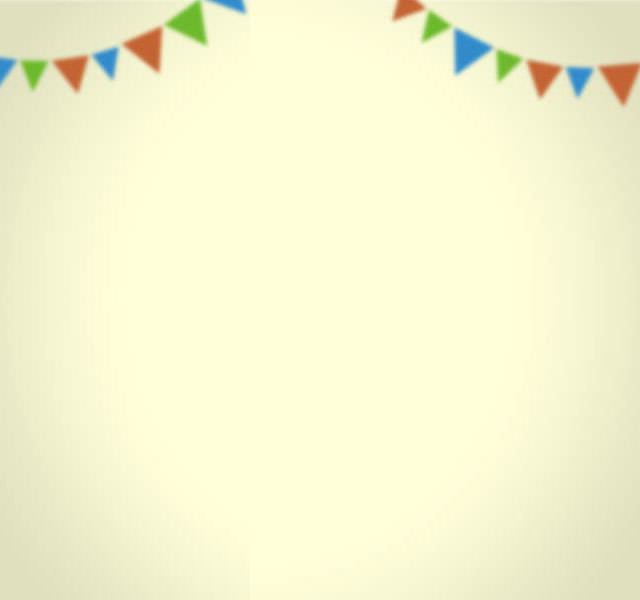
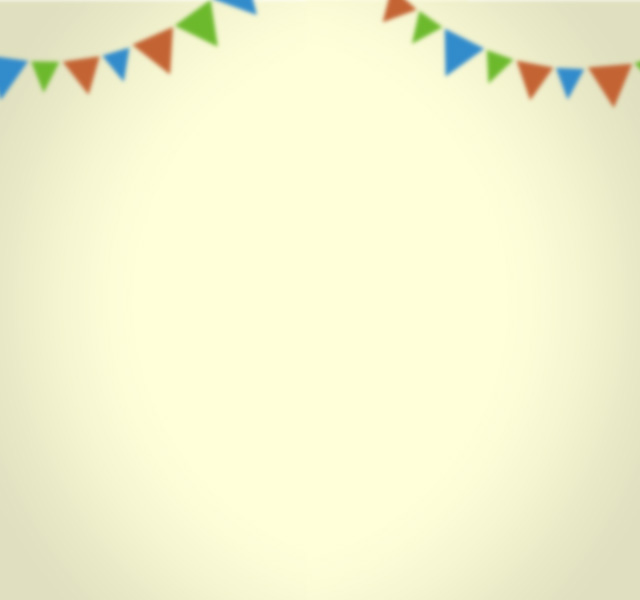
背景画像の高画質化

Changed region(s): [[0.5938, 0.0, 1.0, 0.18], [0.0, 0.0, 0.4062, 0.18]]

diff --git a/css/main.css b/css/main.css
@@ -1,1 +1,1 @@
-.wrapper .notice-txt{overflow:hidden}.wrapper .notice-txt:before{display:block;width:0;height:100%;content:""}.wrapper .notice-yes button,.wrapper .notice-no{-moz-transition:-moz-transform 0.3s ease 0s;-o-transition:-o-transform 0.3s ease 0s;-webkit-transition:-webkit-transform 0.3s ease;-webkit-transition-delay:0s;transition:transform 0.3s ease 0s}.wrapper .notice-yes button:hover,.wrapper .notice-no:hover{-moz-transform:scale(1.2, 1.2);-ms-transform:scale(1.2, 1.2);-webkit-transform:scale(1.2, 1.2);transform:scale(1.2, 1.2)}.wrapper .notice-yes button:active,.wrapper .notice-no:active{-moz-transform:scale(1.4, 1.4);-ms-transform:scale(1.4, 1.4);-webkit-transform:scale(1.4, 1.4);transform:scale(1.4, 1.4)}.wrapper .result_container .again{-moz-transition:opacity 0.3s ease 0s;-o-transition:opacity 0.3s ease 0s;-webkit-transition:opacity 0.3s ease;-webkit-transition-delay:0s;transition:opacity 0.3s ease 0s}.wrapper .result_container .again:hover{opacity:0.8}body,div,dl,dt,dd,ul,ol,li,h1,h2,h3,h4,h5,h6,object,iframe,pre,code,p,blockquote,form,fieldset,legend,span,input,table,th,td,caption,tbody,tfoot,thead,article,aside,figure,footer,header,hgroup,menu,nav,section,audio,video,canvas,main{margin:0;padding:0;box-sizing:border-box}article,aside,figure,figcaption,footer,h1,h2,h3,h4,h5,h6,header,hgroup,menu,nav,section,main{display:block}html,body{width:100%;min-height:100%}body{color:#000;background:#fff;font-family:"Luckiest Guy","ヒラギノ角ゴ Pro W3","Hiragino Kaku Gothic Pro","メイリオ",Meiryo,"ＭＳ Ｐゴシック",sans-serif;font-size:13px;*font-size:82%;line-height:1.5;-webkit-text-size-adjust:100%;word-wrap:break-word}a{color:inherit;text-decoration:none}h1,h2,h3,h4,h5,h6{font-size:100%}p{line-height:1.5}li{list-style:none}table{border-collapse:collapse;border-spacing:0;font-size:100%;font-family:inherit}caption,th,td{text-align:left;vertical-align:top;font-weight:normal}fieldset{border:none}input,textarea,select,label{margin-top:0;margin-bottom:0;padding-top:0;padding-bottom:0;font-size:100%;font-family:inherit;vertical-align:middle;border:none;-webkit-appearance:none;-moz-appearance:none;appearance:none}input:focus,textarea:focus,select:focus,label:focus{outline:none}input ::-moz-focus-inner,textarea ::-moz-focus-inner,select ::-moz-focus-inner,label ::-moz-focus-inner{border:0}select{background:none;border:none}input[type="submit"]{cursor:pointer}label{cursor:pointer}textarea{overflow:auto}legend{display:none}::-moz-selection{background:#b3d4fc;text-shadow:none}::selection{background:#b3d4fc;text-shadow:none}img{border:none;box-sizing:border-box;vertical-align:middle}object{vertical-align:middle;outline:none}em{font-style:italic}strong{font-weight:bold}small{font-size:100%}abbr,acronym{border:none;font-variant:normal}q:before,q:after{content:""}address,caption,cite,code,dfn,var{font-weight:normal;font-style:normal}code,pre{font-family:monospace}sup{vertical-align:text-top}sub{vertical-align:text-bottom}hr{display:none}button{width:100%;height:100%;line-height:inherit;border:none;background:none;cursor:pointer;margin:0;padding:0;color:inherit;font-size:inherit;font-weight:inherit;font-family:inherit;vertical-align:top}button:focus{outline:none}button ::-moz-focus-inner{border:0}button::-moz-focus-inner,input[type="button"]::-moz-focus-inner,input[type="submit"]::-moz-focus-inner,input[type="reset"]::-moz-focus-inner{padding:0 !important;border:0 none !important}*:first-child+html body,*:first-child+html br{letter-spacing:0}@-moz-keyframes show{0%{opacity:0}100%{opacity:1}}@-webkit-keyframes show{0%{opacity:0}100%{opacity:1}}@keyframes show{0%{opacity:0}100%{opacity:1}}.sp{display:none}.wrapper{position:absolute;top:0;right:0;bottom:0;left:0;min-width:1280px;min-height:600px;overflow:hidden;background:url('../img/common/bg.jpg?1426948714') no-repeat center;background-size:cover}body.is_sp .wrapper{width:640px;min-width:0;min-height:0;background:url('../img/common/bg_sp.jpg?1426948714') no-repeat center;background-size:cover}.wrapper .ttl{width:650.66667px;height:152px;margin:40px auto 0}.wrapper .ttl img{width:100%;height:auto}body.is_sp .wrapper .ttl{width:488px;height:114px;margin-top:40px}body.is_sp .wrapper .ttl img{width:100%;height:auto}.wrapper .boy{position:absolute;bottom:40px;left:50%;width:300px;height:670px;background-image:url('../img/boy/body.png?1426948714');background-size:100% auto;background-position:0 0px;margin-left:-600px;-moz-transform-origin:center bottom;-ms-transform-origin:center bottom;-webkit-transform-origin:center bottom;transform-origin:center bottom}body.is_sp .wrapper .boy{top:50%;bottom:auto;margin:-240px auto auto -420px;-moz-transform:scale(0.8, 0.8);-ms-transform:scale(0.8, 0.8);-webkit-transform:scale(0.8, 0.8);transform:scale(0.8, 0.8)}.wrapper .boy.normal{background-position:0 0px}.wrapper .boy.wait{background-position:0 -670px}.wrapper .boy.think{background-position:0 -1340px}.wrapper .boy.boring{background-position:0 -2010px}.wrapper .boy.surprised{background-position:0 -2680px}.wrapper .boy.happy{background-position:0 -3350px}.wrapper .boy:before{position:absolute;top:10px;right:-120px;width:157px;height:185px;background:url('../img/common/balloon-small.png?1426948714') no-repeat center;background-size:contain;opacity:0;-moz-transition:all 0.9s ease 0s;-o-transition:all 0.9s ease 0s;-webkit-transition:all 0.9s ease;-webkit-transition-delay:0s;transition:all 0.9s ease 0s;content:""}.wrapper .boy:before img{width:100%;height:auto}body.is_sp .wrapper .boy:before{top:-80px;right:-40px}.wrapper .boy.think:before{-moz-transform:translate(10px, -10px);-ms-transform:translate(10px, -10px);-webkit-transform:translate(10px, -10px);transform:translate(10px, -10px);opacity:1}.wrapper .boy.happy:before{display:none}.wrapper .girl{position:absolute;bottom:40px;left:50%;width:234px;height:709px;margin-left:250px;background:url('../img/girl/body.png?1426948714') no-repeat center;background-size:contain;-moz-transform-origin:center bottom;-ms-transform-origin:center bottom;-webkit-transform-origin:center bottom;transform-origin:center bottom}.wrapper .girl img{width:100%;height:auto}body.is_sp .wrapper .girl{top:50%;bottom:auto;margin:-280px auto auto 50px}.wrapper .girl .parts{position:absolute;margin:auto;box-sizing:content-box;border:4px solid #000}.wrapper .girl .parts button{position:absolute;top:0;right:0;bottom:0;left:0}.wrapper .girl .parts.top{right:0;left:0;width:235px;height:107px;background-image:url('../img/girl/top.png?1426948714');background-size:100% auto;background-position:0 0px}.wrapper .girl .parts.top[data-size="1"]{background-position:0 0px}.wrapper .girl .parts.top[data-size="2"]{background-position:0 -107.66667px}.wrapper .girl .parts.top[data-size="3"]{background-position:0 -215.33333px}.wrapper .girl .parts.middle{right:0;left:0;width:235px;height:92px;background-image:url('../img/girl/middle.png?1426948714');background-size:100% auto;background-position:0 0px}.wrapper .girl .parts.middle[data-size="1"]{background-position:0 0px}.wrapper .girl .parts.middle[data-size="2"]{background-position:0 -92.66667px}.wrapper .girl .parts.middle[data-size="3"]{background-position:0 -185.33333px}.wrapper .girl .parts.bottom{right:0;left:0;width:235px;height:102px;background-image:url('../img/girl/bottom.png?1426948714');background-size:100% auto;background-position:0 0px}.wrapper .girl .parts.bottom[data-size="1"]{background-position:0 0px}.wrapper .girl .parts.bottom[data-size="2"]{background-position:0 -102px}.wrapper .girl .parts.bottom[data-size="3"]{background-position:0 -204px}.wrapper .girl .parts.top{top:140px}.wrapper .girl .parts.middle{top:257px}.wrapper .girl .parts.bottom{top:360px}.wrapper .girl .value{position:absolute;line-height:1em;color:#fff;font-size:48px;letter-spacing:3px;text-shadow:2px 0px 0px #000,-1.74661px -0.97435px 0px #000,1.05064px 1.70181px 0px #000,-0.08846px -1.99804px 0px #000,-0.89615px 1.78799px 0px #000,1.65367px -1.12488px 0px #000,-1.99218px 0.17674px 0px #000,1.82588px 0.81619px 0px #000,-1.19692px -1.60231px 0px #000,0.26467px 1.98241px 0px #000,0.73464px -1.86019px 0px #000,-1.5478px 1.26662px 0px #000,1.96876px -0.35209px 0px #000,-1.89086px -0.65165px 0px #000,1.33383px 1.49027px 0px #000,-0.43882px -1.95127px 0px #000,-0.56738px 1.91783px 0px #000;opacity:0}.wrapper .girl .value .unit{font-size:32px}body.is_sp .wrapper .girl .value .unit{font-size:24px}.wrapper .girl .value.top{top:192px;left:240px}.wrapper .girl .value.middle{top:295px;left:240px}.wrapper .girl .value.bottom{top:405px;left:240px}body.is_sp .wrapper .girl .value.top,body.is_sp .wrapper .girl .value.middle,body.is_sp .wrapper .girl .value.bottom{left:-80px}.wrapper .girl .guard{position:absolute;top:0;right:0;bottom:0;left:0}.wrapper .girl .advice{display:none;position:absolute;top:-90px;bottom:0;left:-320px;width:300px;height:140px;padding:20px;margin:auto;font-size:24px;background:#fff;box-shadow:0 0 3px 3px #000;border-radius:15px;opacity:0}body.is_sp .wrapper .girl .advice{top:-340px}.wrapper .girl .advice:after{position:absolute;top:0;right:-18px;bottom:0;width:40px;height:40px;margin:auto;background-color:#fff;box-shadow:4px -4px 1px 0 #000;-moz-transform:rotate(45deg);-ms-transform:rotate(45deg);-webkit-transform:rotate(45deg);transform:rotate(45deg);content:""}.wrapper .result_container{display:none;position:absolute;top:0;right:0;bottom:0;left:-60px;width:40%;height:85%;margin:auto;opacity:0}body.is_sp .wrapper .result_container{top:0;right:0;bottom:0;left:0;width:75%}.wrapper .result_container .again{position:absolute;right:0;bottom:0;left:0;width:70%;height:9.6%;margin:auto;font-size:32px;background:#fff;box-shadow:0 0 2px 5px #000;border-radius:20px;opacity:0}.wrapper .result_container .again .text{position:absolute;top:0;right:0;bottom:0;left:0;height:1em;margin:auto;font-weight:bold}.wrapper .result{position:relative;width:100%;height:80%;padding:12% 15% 7%;background:url('../img/common/balloon.png?1426948714') no-repeat center;background-size:100% 100%}body.is_sp .wrapper .result{padding:20% 15% 7%;-moz-transform:translate(40px, 40px);-ms-transform:translate(40px, 40px);-webkit-transform:translate(40px, 40px);transform:translate(40px, 40px)}.wrapper .result:before{position:absolute;top:0;bottom:0;left:-91.42857px;width:86.42857px;height:40px;margin:auto;background:url('../img/common/balloon-effect.png?1426948714') no-repeat center;background-size:contain;content:""}.wrapper .result:before img{width:100%;height:auto}body.is_sp .wrapper .result:before{bottom:44%;left:-76.42857px;top:auto;-moz-transform:scale(0.6, 0.6);-ms-transform:scale(0.6, 0.6);-webkit-transform:scale(0.6, 0.6);transform:scale(0.6, 0.6)}.wrapper .result .name{line-height:1em;font-size:36px;font-weight:bold}.wrapper .result .pic_container{width:100%;height:calc(100% - 74px);margin-top:20px}.wrapper .result .pic_container .pic{width:48%;height:47.5%;background-size:contain;background-repeat:no-repeat;background-position:center center}.wrapper .result .pic_container .pic:nth-child(odd){float:left}.wrapper .result .pic_container .pic:nth-child(even){float:right}.wrapper .result .pic_container .pic:nth-child(n+3){margin-top:3%}.wrapper .result .notice{position:absolute;right:15%;bottom:8%;font-size:10px}body.is_sp .wrapper .result .notice{bottom:6%}.wrapper .notice_container{position:absolute;top:0;right:0;bottom:0;left:0;background:rgba(0,0,0,0.85)}.wrapper .notice_container .notice{position:absolute;top:0;right:0;bottom:0;left:0;width:960px;height:480px;margin:auto;background:rgba(255,255,255,0.8);border-radius:20px;box-shadow:0 0 10px 5px #000}body.is_sp .wrapper .notice_container .notice{width:600px;height:300px}.wrapper .notice-txt{width:782px;height:198px;background:url('../img/common/notice-txt.png?1426948714') no-repeat center;background-size:contain;margin:120px auto 0}.wrapper .notice-txt img{width:100%;height:auto}body.is_sp .wrapper .notice-txt{width:558.57143px;height:141.42857px;margin-top:80px}body.is_sp .wrapper .notice-txt img{width:100%;height:auto}.wrapper .notice-yes,.wrapper .notice-no{position:absolute;top:270px;left:50%}body.is_sp .wrapper .notice-yes,body.is_sp .wrapper .notice-no{top:180px}.wrapper .notice-yes{width:159px;height:106px;margin:-25px auto auto -195px}.wrapper .notice-yes button{position:absolute;top:0;right:0;bottom:0;left:0;width:109px;height:56px;margin:auto}.wrapper .notice-yes button img{width:100%;height:auto}.wrapper .notice-no{margin:-5px auto auto 50px}.hiragino{font-family:"ヒラギノ角ゴ Pro W3","Hiragino Kaku Gothic Pro","メイリオ",Meiryo,"ＭＳ Ｐゴシック",sans-serif}
+.wrapper .notice-txt{overflow:hidden}.wrapper .notice-txt:before{display:block;width:0;height:100%;content:""}.wrapper .notice-yes button,.wrapper .notice-no{-moz-transition:-moz-transform 0.3s ease 0s;-o-transition:-o-transform 0.3s ease 0s;-webkit-transition:-webkit-transform 0.3s ease;-webkit-transition-delay:0s;transition:transform 0.3s ease 0s}.wrapper .notice-yes button:hover,.wrapper .notice-no:hover{-moz-transform:scale(1.2, 1.2);-ms-transform:scale(1.2, 1.2);-webkit-transform:scale(1.2, 1.2);transform:scale(1.2, 1.2)}.wrapper .notice-yes button:active,.wrapper .notice-no:active{-moz-transform:scale(1.4, 1.4);-ms-transform:scale(1.4, 1.4);-webkit-transform:scale(1.4, 1.4);transform:scale(1.4, 1.4)}.wrapper .result_container .again{-moz-transition:opacity 0.3s ease 0s;-o-transition:opacity 0.3s ease 0s;-webkit-transition:opacity 0.3s ease;-webkit-transition-delay:0s;transition:opacity 0.3s ease 0s}.wrapper .result_container .again:hover{opacity:0.8}body,div,dl,dt,dd,ul,ol,li,h1,h2,h3,h4,h5,h6,object,iframe,pre,code,p,blockquote,form,fieldset,legend,span,input,table,th,td,caption,tbody,tfoot,thead,article,aside,figure,footer,header,hgroup,menu,nav,section,audio,video,canvas,main{margin:0;padding:0;box-sizing:border-box}article,aside,figure,figcaption,footer,h1,h2,h3,h4,h5,h6,header,hgroup,menu,nav,section,main{display:block}html,body{width:100%;min-height:100%}body{color:#000;background:#fff;font-family:"Luckiest Guy","ヒラギノ角ゴ Pro W3","Hiragino Kaku Gothic Pro","メイリオ",Meiryo,"ＭＳ Ｐゴシック",sans-serif;font-size:13px;*font-size:82%;line-height:1.5;-webkit-text-size-adjust:100%;word-wrap:break-word}a{color:inherit;text-decoration:none}h1,h2,h3,h4,h5,h6{font-size:100%}p{line-height:1.5}li{list-style:none}table{border-collapse:collapse;border-spacing:0;font-size:100%;font-family:inherit}caption,th,td{text-align:left;vertical-align:top;font-weight:normal}fieldset{border:none}input,textarea,select,label{margin-top:0;margin-bottom:0;padding-top:0;padding-bottom:0;font-size:100%;font-family:inherit;vertical-align:middle;border:none;-webkit-appearance:none;-moz-appearance:none;appearance:none}input:focus,textarea:focus,select:focus,label:focus{outline:none}input ::-moz-focus-inner,textarea ::-moz-focus-inner,select ::-moz-focus-inner,label ::-moz-focus-inner{border:0}select{background:none;border:none}input[type="submit"]{cursor:pointer}label{cursor:pointer}textarea{overflow:auto}legend{display:none}::-moz-selection{background:#b3d4fc;text-shadow:none}::selection{background:#b3d4fc;text-shadow:none}img{border:none;box-sizing:border-box;vertical-align:middle}object{vertical-align:middle;outline:none}em{font-style:italic}strong{font-weight:bold}small{font-size:100%}abbr,acronym{border:none;font-variant:normal}q:before,q:after{content:""}address,caption,cite,code,dfn,var{font-weight:normal;font-style:normal}code,pre{font-family:monospace}sup{vertical-align:text-top}sub{vertical-align:text-bottom}hr{display:none}button{width:100%;height:100%;line-height:inherit;border:none;background:none;cursor:pointer;margin:0;padding:0;color:inherit;font-size:inherit;font-weight:inherit;font-family:inherit;vertical-align:top}button:focus{outline:none}button ::-moz-focus-inner{border:0}button::-moz-focus-inner,input[type="button"]::-moz-focus-inner,input[type="submit"]::-moz-focus-inner,input[type="reset"]::-moz-focus-inner{padding:0 !important;border:0 none !important}*:first-child+html body,*:first-child+html br{letter-spacing:0}@-moz-keyframes show{0%{opacity:0}100%{opacity:1}}@-webkit-keyframes show{0%{opacity:0}100%{opacity:1}}@keyframes show{0%{opacity:0}100%{opacity:1}}.sp{display:none}.wrapper{position:absolute;top:0;right:0;bottom:0;left:0;min-width:1280px;min-height:600px;overflow:hidden;background:url('../img/common/bg.jpg?1426949172') no-repeat center;background-size:cover}body.is_sp .wrapper{width:640px;min-width:0;min-height:0;background:url('../img/common/bg_sp.jpg?1426949172') no-repeat center;background-size:cover}.wrapper .ttl{width:650.66667px;height:152px;margin:40px auto 0}.wrapper .ttl img{width:100%;height:auto}body.is_sp .wrapper .ttl{width:488px;height:114px;margin-top:40px}body.is_sp .wrapper .ttl img{width:100%;height:auto}.wrapper .boy{position:absolute;bottom:40px;left:50%;width:300px;height:670px;background-image:url('../img/boy/body.png?1426949172');background-size:100% auto;background-position:0 0px;margin-left:-600px;-moz-transform-origin:center bottom;-ms-transform-origin:center bottom;-webkit-transform-origin:center bottom;transform-origin:center bottom}body.is_sp .wrapper .boy{top:50%;bottom:auto;margin:-240px auto auto -420px;-moz-transform:scale(0.8, 0.8);-ms-transform:scale(0.8, 0.8);-webkit-transform:scale(0.8, 0.8);transform:scale(0.8, 0.8)}.wrapper .boy.normal{background-position:0 0px}.wrapper .boy.wait{background-position:0 -670px}.wrapper .boy.think{background-position:0 -1340px}.wrapper .boy.boring{background-position:0 -2010px}.wrapper .boy.surprised{background-position:0 -2680px}.wrapper .boy.happy{background-position:0 -3350px}.wrapper .boy:before{position:absolute;top:10px;right:-120px;width:157px;height:185px;background:url('../img/common/balloon-small.png?1426949172') no-repeat center;background-size:contain;opacity:0;-moz-transition:all 0.9s ease 0s;-o-transition:all 0.9s ease 0s;-webkit-transition:all 0.9s ease;-webkit-transition-delay:0s;transition:all 0.9s ease 0s;content:""}.wrapper .boy:before img{width:100%;height:auto}body.is_sp .wrapper .boy:before{top:-80px;right:-40px}.wrapper .boy.think:before{-moz-transform:translate(10px, -10px);-ms-transform:translate(10px, -10px);-webkit-transform:translate(10px, -10px);transform:translate(10px, -10px);opacity:1}.wrapper .boy.happy:before{display:none}.wrapper .girl{position:absolute;bottom:40px;left:50%;width:234px;height:709px;margin-left:250px;background:url('../img/girl/body.png?1426949172') no-repeat center;background-size:contain;-moz-transform-origin:center bottom;-ms-transform-origin:center bottom;-webkit-transform-origin:center bottom;transform-origin:center bottom}.wrapper .girl img{width:100%;height:auto}body.is_sp .wrapper .girl{top:50%;bottom:auto;margin:-280px auto auto 50px}.wrapper .girl .parts{position:absolute;margin:auto;box-sizing:content-box;border:4px solid #000}.wrapper .girl .parts button{position:absolute;top:0;right:0;bottom:0;left:0}.wrapper .girl .parts.top{right:0;left:0;width:235px;height:107px;background-image:url('../img/girl/top.png?1426949172');background-size:100% auto;background-position:0 0px}.wrapper .girl .parts.top[data-size="1"]{background-position:0 0px}.wrapper .girl .parts.top[data-size="2"]{background-position:0 -107.66667px}.wrapper .girl .parts.top[data-size="3"]{background-position:0 -215.33333px}.wrapper .girl .parts.middle{right:0;left:0;width:235px;height:92px;background-image:url('../img/girl/middle.png?1426949172');background-size:100% auto;background-position:0 0px}.wrapper .girl .parts.middle[data-size="1"]{background-position:0 0px}.wrapper .girl .parts.middle[data-size="2"]{background-position:0 -92.66667px}.wrapper .girl .parts.middle[data-size="3"]{background-position:0 -185.33333px}.wrapper .girl .parts.bottom{right:0;left:0;width:235px;height:102px;background-image:url('../img/girl/bottom.png?1426949172');background-size:100% auto;background-position:0 0px}.wrapper .girl .parts.bottom[data-size="1"]{background-position:0 0px}.wrapper .girl .parts.bottom[data-size="2"]{background-position:0 -102px}.wrapper .girl .parts.bottom[data-size="3"]{background-position:0 -204px}.wrapper .girl .parts.top{top:140px}.wrapper .girl .parts.middle{top:257px}.wrapper .girl .parts.bottom{top:360px}.wrapper .girl .value{position:absolute;line-height:1em;color:#fff;font-size:48px;letter-spacing:3px;text-shadow:2px 0px 0px #000,-1.74661px -0.97435px 0px #000,1.05064px 1.70181px 0px #000,-0.08846px -1.99804px 0px #000,-0.89615px 1.78799px 0px #000,1.65367px -1.12488px 0px #000,-1.99218px 0.17674px 0px #000,1.82588px 0.81619px 0px #000,-1.19692px -1.60231px 0px #000,0.26467px 1.98241px 0px #000,0.73464px -1.86019px 0px #000,-1.5478px 1.26662px 0px #000,1.96876px -0.35209px 0px #000,-1.89086px -0.65165px 0px #000,1.33383px 1.49027px 0px #000,-0.43882px -1.95127px 0px #000,-0.56738px 1.91783px 0px #000;opacity:0}.wrapper .girl .value .unit{font-size:32px}body.is_sp .wrapper .girl .value .unit{font-size:24px}.wrapper .girl .value.top{top:192px;left:240px}.wrapper .girl .value.middle{top:295px;left:240px}.wrapper .girl .value.bottom{top:405px;left:240px}body.is_sp .wrapper .girl .value.top,body.is_sp .wrapper .girl .value.middle,body.is_sp .wrapper .girl .value.bottom{left:-80px}.wrapper .girl .guard{position:absolute;top:0;right:0;bottom:0;left:0}.wrapper .girl .advice{display:none;position:absolute;top:-90px;bottom:0;left:-320px;width:300px;height:140px;padding:20px;margin:auto;font-size:24px;background:#fff;box-shadow:0 0 3px 3px #000;border-radius:15px;opacity:0}body.is_sp .wrapper .girl .advice{top:-340px}.wrapper .girl .advice:after{position:absolute;top:0;right:-18px;bottom:0;width:40px;height:40px;margin:auto;background-color:#fff;box-shadow:4px -4px 1px 0 #000;-moz-transform:rotate(45deg);-ms-transform:rotate(45deg);-webkit-transform:rotate(45deg);transform:rotate(45deg);content:""}.wrapper .result_container{display:none;position:absolute;top:0;right:0;bottom:0;left:-60px;width:40%;height:85%;margin:auto;opacity:0}body.is_sp .wrapper .result_container{top:0;right:0;bottom:0;left:0;width:75%}.wrapper .result_container .again{position:absolute;right:0;bottom:0;left:0;width:70%;height:9.6%;margin:auto;font-size:32px;background:#fff;box-shadow:0 0 2px 5px #000;border-radius:20px;opacity:0}.wrapper .result_container .again .text{position:absolute;top:0;right:0;bottom:0;left:0;height:1em;margin:auto;font-weight:bold}.wrapper .result{position:relative;width:100%;height:80%;padding:12% 15% 7%;background:url('../img/common/balloon.png?1426949172') no-repeat center;background-size:100% 100%}body.is_sp .wrapper .result{padding:20% 15% 7%;-moz-transform:translate(40px, 40px);-ms-transform:translate(40px, 40px);-webkit-transform:translate(40px, 40px);transform:translate(40px, 40px)}.wrapper .result:before{position:absolute;top:0;bottom:0;left:-91.42857px;width:86.42857px;height:40px;margin:auto;background:url('../img/common/balloon-effect.png?1426949172') no-repeat center;background-size:contain;content:""}.wrapper .result:before img{width:100%;height:auto}body.is_sp .wrapper .result:before{bottom:44%;left:-76.42857px;top:auto;-moz-transform:scale(0.6, 0.6);-ms-transform:scale(0.6, 0.6);-webkit-transform:scale(0.6, 0.6);transform:scale(0.6, 0.6)}.wrapper .result .name{line-height:1em;font-size:36px;font-weight:bold}.wrapper .result .pic_container{width:100%;height:calc(100% - 74px);margin-top:20px}.wrapper .result .pic_container .pic{width:48%;height:47.5%;background-size:contain;background-repeat:no-repeat;background-position:center center}.wrapper .result .pic_container .pic:nth-child(odd){float:left}.wrapper .result .pic_container .pic:nth-child(even){float:right}.wrapper .result .pic_container .pic:nth-child(n+3){margin-top:3%}.wrapper .result .notice{position:absolute;right:15%;bottom:8%;font-size:10px}body.is_sp .wrapper .result .notice{bottom:6%}.wrapper .notice_container{position:absolute;top:0;right:0;bottom:0;left:0;background:rgba(0,0,0,0.85)}.wrapper .notice_container .notice{position:absolute;top:0;right:0;bottom:0;left:0;width:960px;height:480px;margin:auto;background:rgba(255,255,255,0.8);border-radius:20px;box-shadow:0 0 10px 5px #000}body.is_sp .wrapper .notice_container .notice{width:600px;height:300px}.wrapper .notice-txt{width:782px;height:198px;background:url('../img/common/notice-txt.png?1426949172') no-repeat center;background-size:contain;margin:120px auto 0}.wrapper .notice-txt img{width:100%;height:auto}body.is_sp .wrapper .notice-txt{width:558.57143px;height:141.42857px;margin-top:80px}body.is_sp .wrapper .notice-txt img{width:100%;height:auto}.wrapper .notice-yes,.wrapper .notice-no{position:absolute;top:270px;left:50%}body.is_sp .wrapper .notice-yes,body.is_sp .wrapper .notice-no{top:180px}.wrapper .notice-yes{width:159px;height:106px;margin:-25px auto auto -195px}.wrapper .notice-yes button{position:absolute;top:0;right:0;bottom:0;left:0;width:109px;height:56px;margin:auto}.wrapper .notice-yes button img{width:100%;height:auto}.wrapper .notice-no{margin:-5px auto auto 50px}.hiragino{font-family:"ヒラギノ角ゴ Pro W3","Hiragino Kaku Gothic Pro","メイリオ",Meiryo,"ＭＳ Ｐゴシック",sans-serif}
